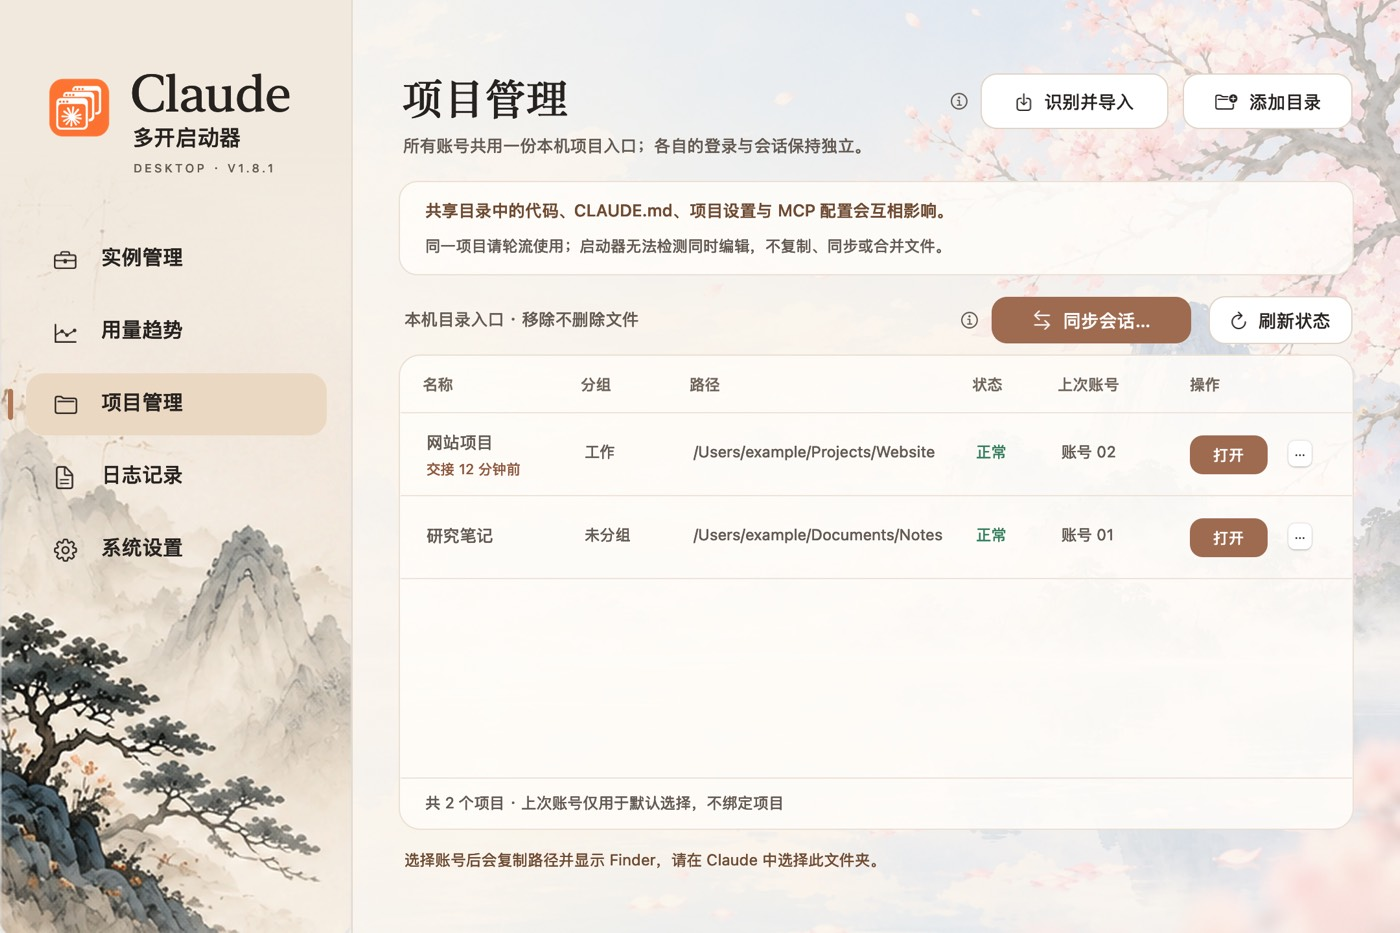
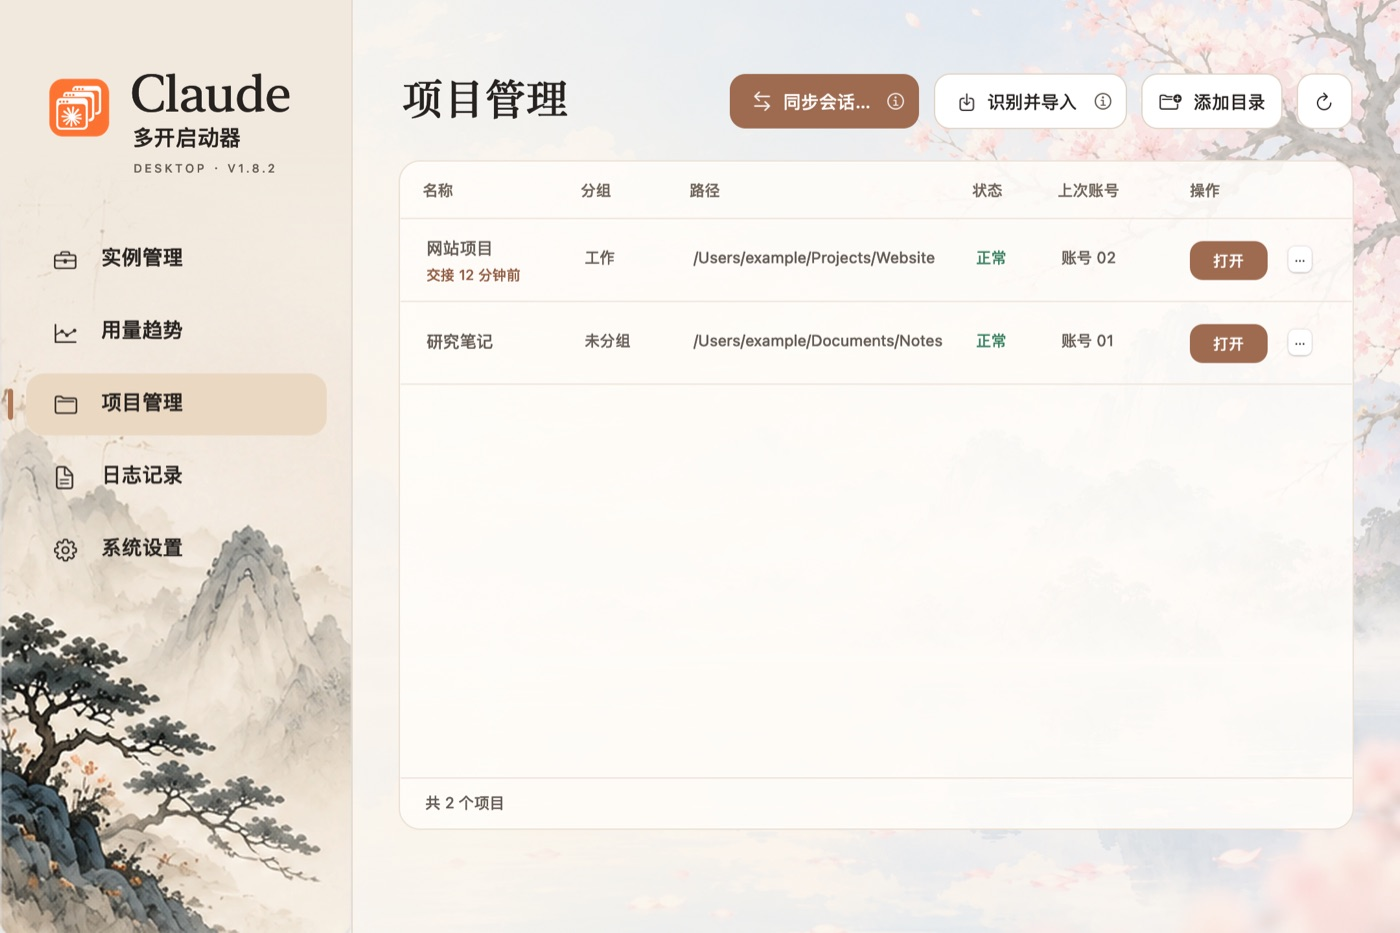
macOS 1.8.2: release notes, version bump, tutorial images

diff --git a/docs/STATUS.md b/docs/STATUS.md
@@ -55,6 +55,13 @@
 - 正常关闭先扫描唯一官方主进程并核对启动时间，再发送关窗请求。Claude 留在托盘时提示用户从托盘退出。
 - 卡片横向加宽，两个用量圆环靠拢，加入时钟和日历图标，从底部顺时针绘制，按 60%／80% 阈值着色。倒计时每秒本地更新，仅显示天与小时或小时与分钟；缺失项隐藏，未知重置格式及观察时间保留在悬停说明。 圆环标题与倒计时固定使用英文，不随界面语言切换。标题为 `5-hour`、`weekly`，时间为 `2h 30m`、`3d 5h` 等简写。
 - `build.ps1 -Preview` 通过，LauncherTests 364、SyncTests 154、SessionSyncTests 369、TutorialTests 83、自检 248。中文浅色及英文暗色合成预览已查看，覆盖绿／黄／红圆环与缺失用量。符号链接创建受环境限制跳过，拷贝回退通过；保留两项既有编译警告。真实账号启动／激活／关闭、鼠标键盘与高 DPI 待人工验收。
+## macOS 1.8.2：去掉切换推荐、修趋势图、精简文字与布局（2026-11-05）
+
+- 范围见 [RELEASE-macos-1.8.2](RELEASE-macos-1.8.2.md)；`build.sh` 版本 1.8.2（build 33）。规格同步 SPEC 用量提醒条目（只提示，不推荐／切换）。
+- 实现：`alertUsage:` 只写提醒文本，删除 `suggestButton` 与 `switchToSuggested:`（`SuggestedAccount` 仍供项目交接使用）。`UsageTrendView` 在相邻观察间隔超过该限额窗口（5 小时／7 天）时断开线段。`pageTitled:` 去掉副标题参数；设置行静态说明与 `settingsNote` 删除；`infoButton` 改为 `addInfo:to:`，把 i 放在按钮内右侧，`ActionButton` 有子视图时内容左移 10pt。项目页按钮按文字宽度右对齐成一行，刷新改为图标按钮；日志、设置、趋势页内容上移；趋势页滚动视图关闭自动内边距，使标题与其他页齐平。
+- 验证：`build.sh` 自检全部通过；离屏截图（中英文项目页、日志、设置、趋势）已查看；中英文教程配图（项目、趋势）重新生成。
+- 未验证：安装后的真实 GUI 点击／悬停（按钮内 i 的命中与弹出位置）、真实数据下的趋势图外观。
+
 ## macOS 1.8.1：界面同步 Windows 1.8.9 之后的改动（2026-11-05，已发布）
 
[1 lines of base64/hex data omitted]

diff --git a/docs/RELEASE-macos-1.8.2.md b/docs/RELEASE-macos-1.8.2.md
@@ -1,0 +1,10 @@
+# macOS 1.8.2
+
+- 用量提醒只提示用量超过阈值，不再推荐或一键切换到其他账号，也不再附带交接文档提示。
+- 用量趋势图：5 小时线遇到超过 5 小时的观察空档时断开，不再画出跨天的斜线。
+- 去掉各页面的副标题、设置页每项下方的说明和灰色说明框、项目管理页的共享目录提示框和底部说明；日志底部只显示条数。辅助功能授权状态和数据目录路径保留。
+- 项目管理页：同步会话、识别并导入、添加目录、刷新四个按钮放在标题那一行，按文字宽度排列；说明的 i 图标放在按钮里面，点 i 查看说明。日志、设置、趋势页的内容上移，和项目页对齐。
+
+不新增 Claude／Anthropic 访问，固定签名证书不变。
+
+未验证：安装后真实窗口中的点击与悬停（尤其是按钮内的 i）、有真实数据时的趋势图。
